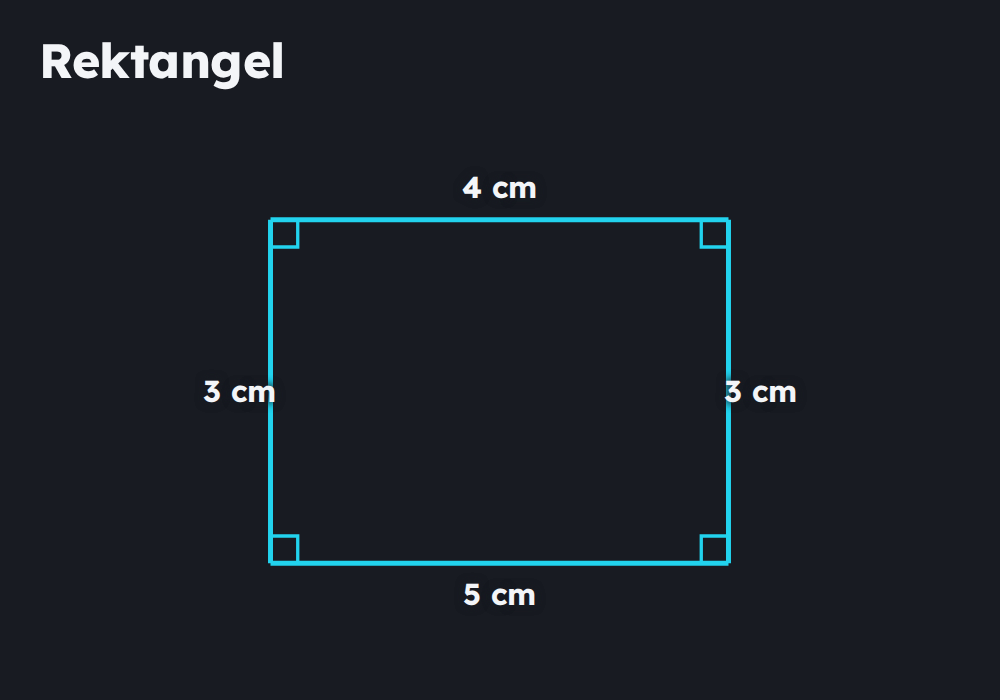
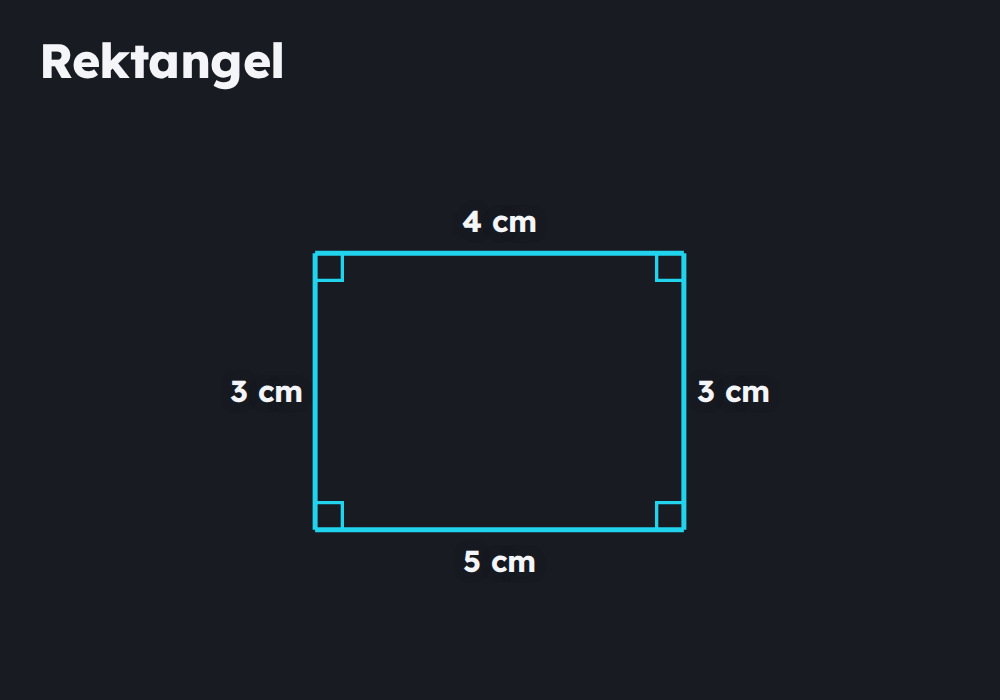
Rebase length lint onto merged PR56; final-lint preview repair proof

Changed region(s): [[0.186, 0.24, 0.806, 0.87]]

diff --git a/screen/tools/check_lengths.py b/screen/tools/check_lengths.py
@@ -8,7 +8,7 @@ the independent check finds is named by shell lint, and no consistent,
 unknown, hidden or opted-out case warns.
 
   uv run --project server python screen/tools/check_lengths.py --out /tmp/lengths
-  uv run --project server python screen/tools/check_lengths.py --out /tmp/lengths --prior-ref 950b3b0
+  uv run --project server python screen/tools/check_lengths.py --out /tmp/lengths --prior-ref 5ff811e
 
 --prior-ref exports that git ref's shell and renders the same bodies there:
 the inconsistent case must render fine but stay silent (the gap this lint
@@ -318,16 +318,6 @@ def issue_kind(issue) -> str:
     return m.group(1).lower() if m else ""
 
 
-def fixed_body(body: str, patch: str) -> str:
-    """Apply a single replace-patch to the source (test helper, not the shell)."""
-    m = re.search(r'<ot-patch\b[^>]*target="([^"]+)"[^>]*>(.*)</ot-patch>', patch, re.S)
-    assert m, f"cannot read patch: {patch[:80]}"
-    target, replacement = m.group(1), m.group(2)
-    full = re.compile(r'<ot-polygon\b[^>]*id="' + re.escape(target) + r'"[^>]*>.*?</ot-polygon>', re.S)
-    assert full.search(body), f"patch target {target} missing"
-    return full.sub(lambda _: replacement, body, count=1)
-
-
 def check_lifecycle(shell, out: Path) -> list[str]:
     """Hidden/reveal, patch replacement/repair and resizing; schematic survival."""
     from playwright.sync_api import sync_playwright
@@ -400,12 +390,10 @@ def check_lifecycle(shell, out: Path) -> list[str]:
         finally:
             browser.close()
 
-    # Real server preview: the repaired body passes the real server renderer.
-    # (Patch-job preview returns on main accumulate the first render's issues
-    # for every lint kind, pre-existing and owned by PR56's final-lint preview
-    # change; the frame-level repair above is what this lint owns. No
-    # length-side change is needed there: lintLengths() already keeps final
-    # lint current by dropping stale length findings before re-adding.)
+    # Real server preview: the repaired page clears. Previews return final
+    # lint (PR56), and lintLengths() drops stale length findings before
+    # re-adding, so a repaired figure comes back clean. The lint retry path
+    # renders the corrected full body fresh and was never affected.
     import asyncio
     import tempfile
     sys.path.insert(0, str(ROOT.parent / "server"))
@@ -415,10 +403,9 @@ def check_lifecycle(shell, out: Path) -> list[str]:
         with tempfile.TemporaryDirectory() as directory:
             screen = Screen({}, Path(directory))
             try:
-                _, issues = await screen._default_render_page(
-                    fixed_body(bad, fixed), None, 370, 610)
+                _, issues = await screen._default_render_page(bad, fixed, 370, 610)
                 if [i for i in issues if issue_kind(i) == "length"]:
-                    failures.append(f"server render of repaired body warns: {issues}")
+                    failures.append(f"server preview kept repaired length warnings: {issues}")
             finally:
                 await screen.aclose()
 

diff --git a/screen/review/2026-11-13-lengths/README.md b/screen/review/2026-11-13-lengths/README.md
@@ -41,9 +41,9 @@ renders the same bodies with that ref's shell: inconsistency must render fine
 but silent there. Chromium fetches the usual public shell CDN assets; CI
 coverage is `screen/tests/test_length_lint.py` (pure decision logic, no
 browser/key). Repeat: `uv run --project server python
-screen/tools/check_lengths.py --out /tmp/lengths [--prior-ref 950b3b0]`.
+screen/tools/check_lengths.py --out /tmp/lengths [--prior-ref 5ff811e]`.
 
-| Case | Independent verdict | Shell (new) | Prior shell 950b3b0 |
+| Case | Independent verdict | Shell (new) | Prior shell 5ff811e (main with PR56) |
 |---|---|---|---|
 | bad-4vs5 (4-unit side says 5 cm) | 1 finding: side 1, ~20% shorter | warns both sizes | renders fine, silent |
 | joint-two (two known sides disagree) | 1 joint finding, no direction | warns both sizes | renders fine, silent |
@@ -73,13 +73,15 @@ leak), corners pointable. No false positive on real output.
 - Foreshortened faces with numeric `sides` (a cuboid drawn with per-face
   measures) would warn; such sketches must carry `schematic`. The cuboid probe
   body uses segments and stays quiet. One REFERENCE.md line teaches the opt-out.
-- Server patch-preview returns on main accumulate the first render's issues
-  for every lint kind (pre-existing; PR56's preview change reads final lint).
-  No length-side change is needed there: `lintLengths()` drops stale length
-  findings before re-adding, so final lint is already correct, and the lint
-  retry renders the corrected full body fresh (unaffected).
-- PR56 owns side-label placement and the shared `lint()`/reveal hook points;
-  this change only reads attributes and adds kind `length` (actionable by
-  default, so the existing bounded retry applies with no server change).
-  Observed while inspecting: the live page's "3 cm" label sits very close to
-  its edge — placement, i.e. PR56's domain, reported not fixed here.
+- Server patch previews return final lint (PR56, now on main), so a repaired
+  figure comes back clean there too — the lifecycle check asserts exactly
+  this. `lintLengths()` drops stale length findings before re-adding, which
+  is what keeps final lint correct; the lint retry renders the corrected
+  full body fresh and was never affected.
+- Placement is PR56's (now on main): this change only reads attributes and
+  adds kind `length` (actionable by default, so the existing bounded retry
+  applies with no server change). It touches the same `lint()`/reveal hook
+  points by appending one call each; the two recomputes are kind-disjoint.
+- Model page re-rendered after the PR56 merge: the 3 cm label now sits clear
+  of its edge, so no remaining placement defect to report; corners pointable,
+  answer box empty, lint clean at boot and after the patch at both sizes.

diff --git a/screen/NOTES.md b/screen/NOTES.md
@@ -38,7 +38,7 @@ REFERENCE.md line draws sides to scale and teaches the `schematic` opt-out.
 A 4-vs-5 synthetic warns while consistent scaled/rounded/mixed-unit figures
 and real writer bodies stay quiet; hidden figures warn only after reveal and
 repaired warnings clear. Reproduce with `tools/check_lengths.py
-[--prior-ref 950b3b0]`; CI pins the decision logic in
+[--prior-ref 5ff811e]`; CI pins the decision logic in
 `tests/test_length_lint.py`. Evidence: `review/2026-11-13-lengths/`, incl. one
 fresh Hydrogen-low page plus patch (lint-clean, inspected at both sizes).
 No new tags, no server change (`length` is actionable by default).
